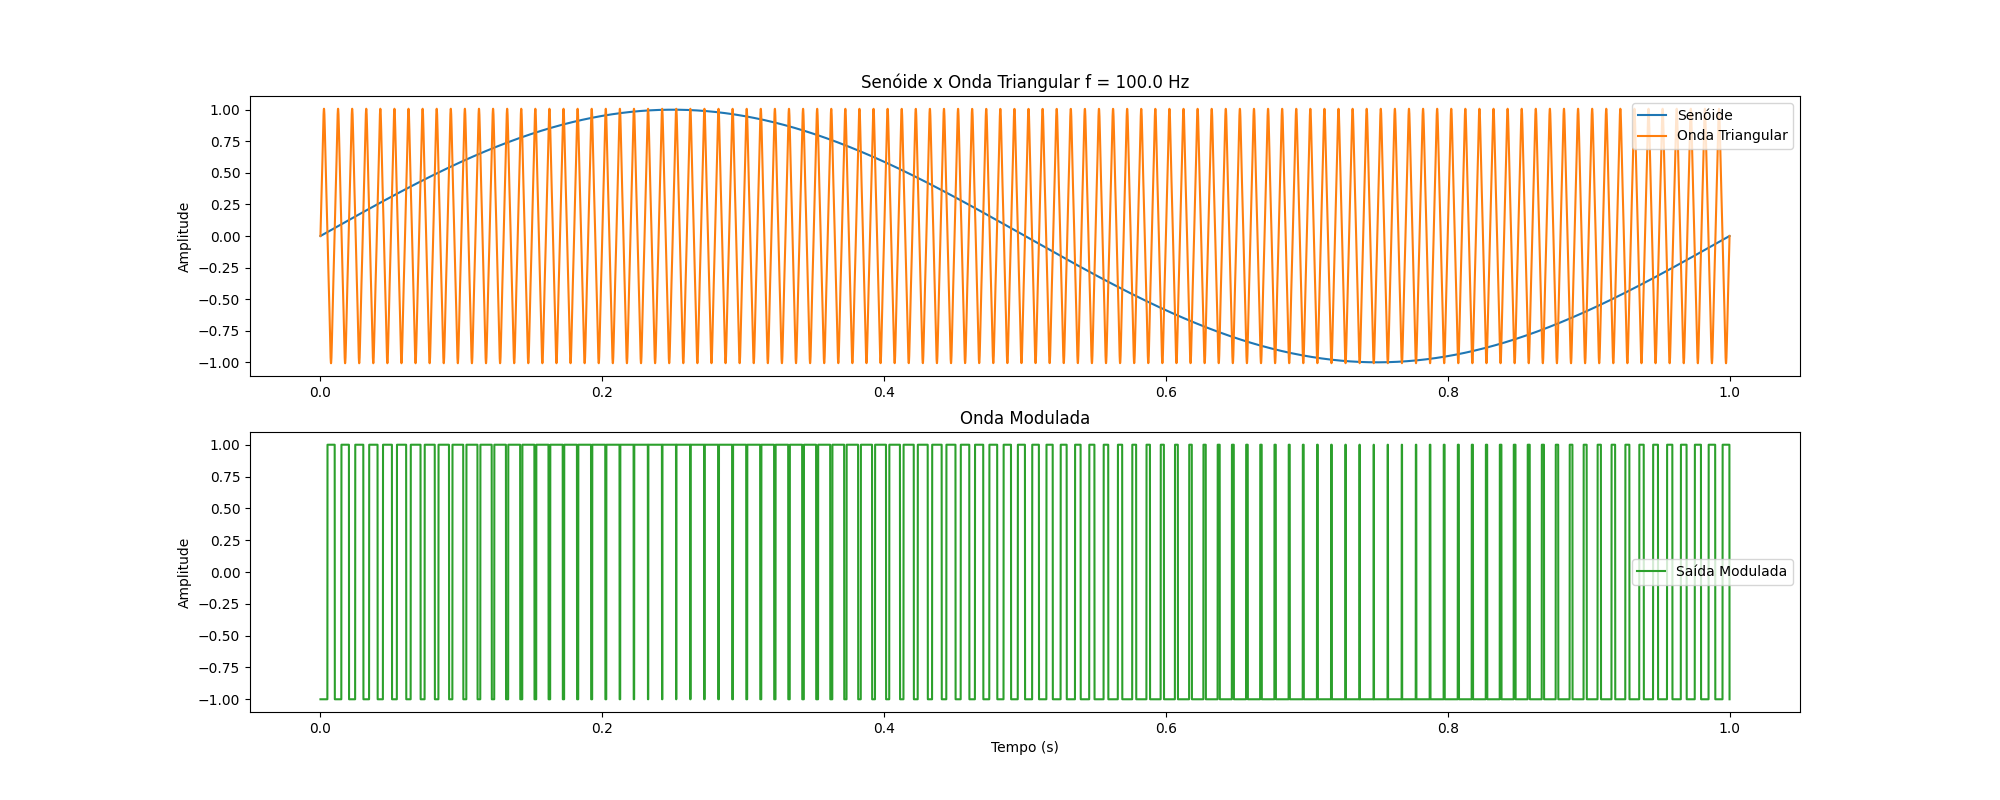
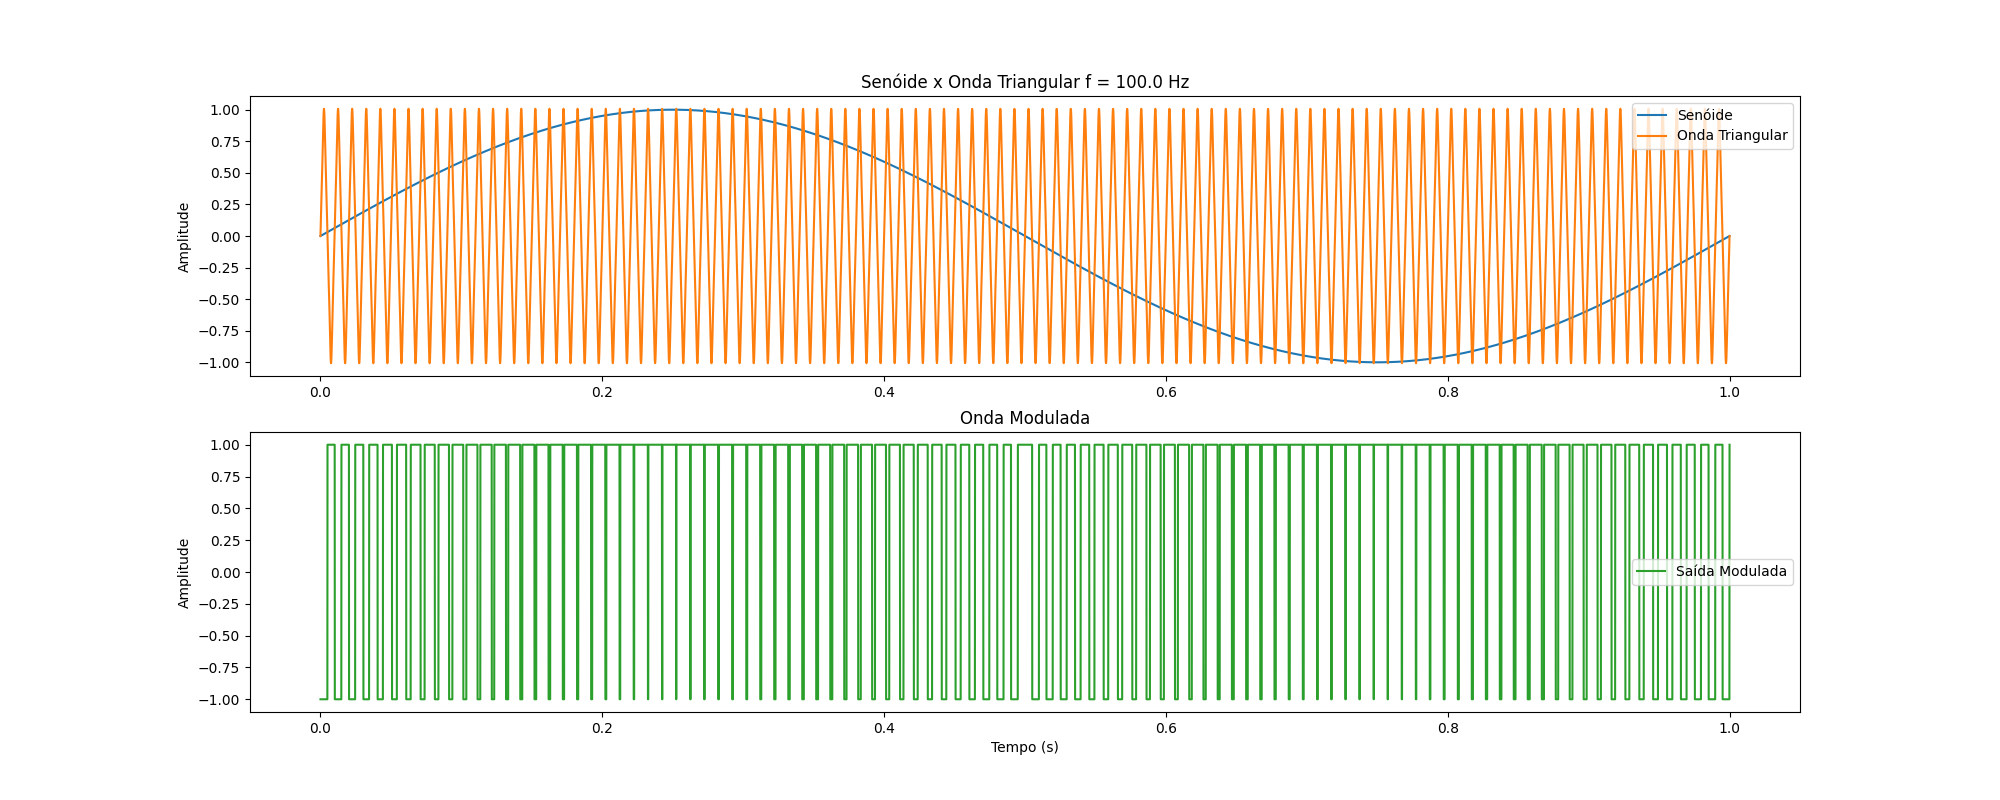
correction on the modulation function

Changed region(s): [[0.496, 0.5312, 0.868, 0.5938], [0.682, 0.8438, 0.868, 0.875], [0.496, 0.8438, 0.651, 0.875]]

diff --git a/main.py b/main.py
@@ -21,11 +21,22 @@ def tr_wave(x, y_tr, i, freq):
     y_tr[i] = (2.75 / np.pi) * ((np.sin(omega * x)) - ((1 / 9) * np.sin(3 * omega * x)) + ((1 / 25) * np.sin(5 * omega * x))) 
 
 #função que compara as ondas
+#A lógica de comparação é a seguinte:
+#   No semi-ciclo positivo da senóide: seno > triangular -> saida = 1
+#                                      seno < triangular -> saida = -1
+#   No semi-siclo negativo da senóide: seno > triangular -> saida = -1
+#                                      seno < triangular -> saida = 1  
 def compare_waves(y_sin, y_tr, i, y_mod):
-    if(y_sin[i] > y_tr[i]):
-        y_mod[i] = 1
+    if(y_sin[i] >= 0.0):
+        if(y_sin[i] > y_tr[i]):
+            y_mod[i] = 1
+        else:
+            y_mod[i] = -1
     else:
-        y_mod[i] = -1
+        if(y_sin[i] < y_tr[i]):
+            y_mod[i] = 1
+        else:
+            y_mod[i] = -1
 
 #inicialização de variáveis
 y_seno = np.zeros(10000)
@@ -43,7 +54,7 @@ freqs_tr = [10.0, 50.0, 100.0, 200.0]
 freq_str = input("Valor da Frequencia em Hz: ")
 freq = float(freq_str)
 
-for j in range(4):
+for j in range(5):
     #Preenchendo o eixo Y 
     for i in range(10000):
         sin_wave(eixo_x[i], freq, y_seno, i)
